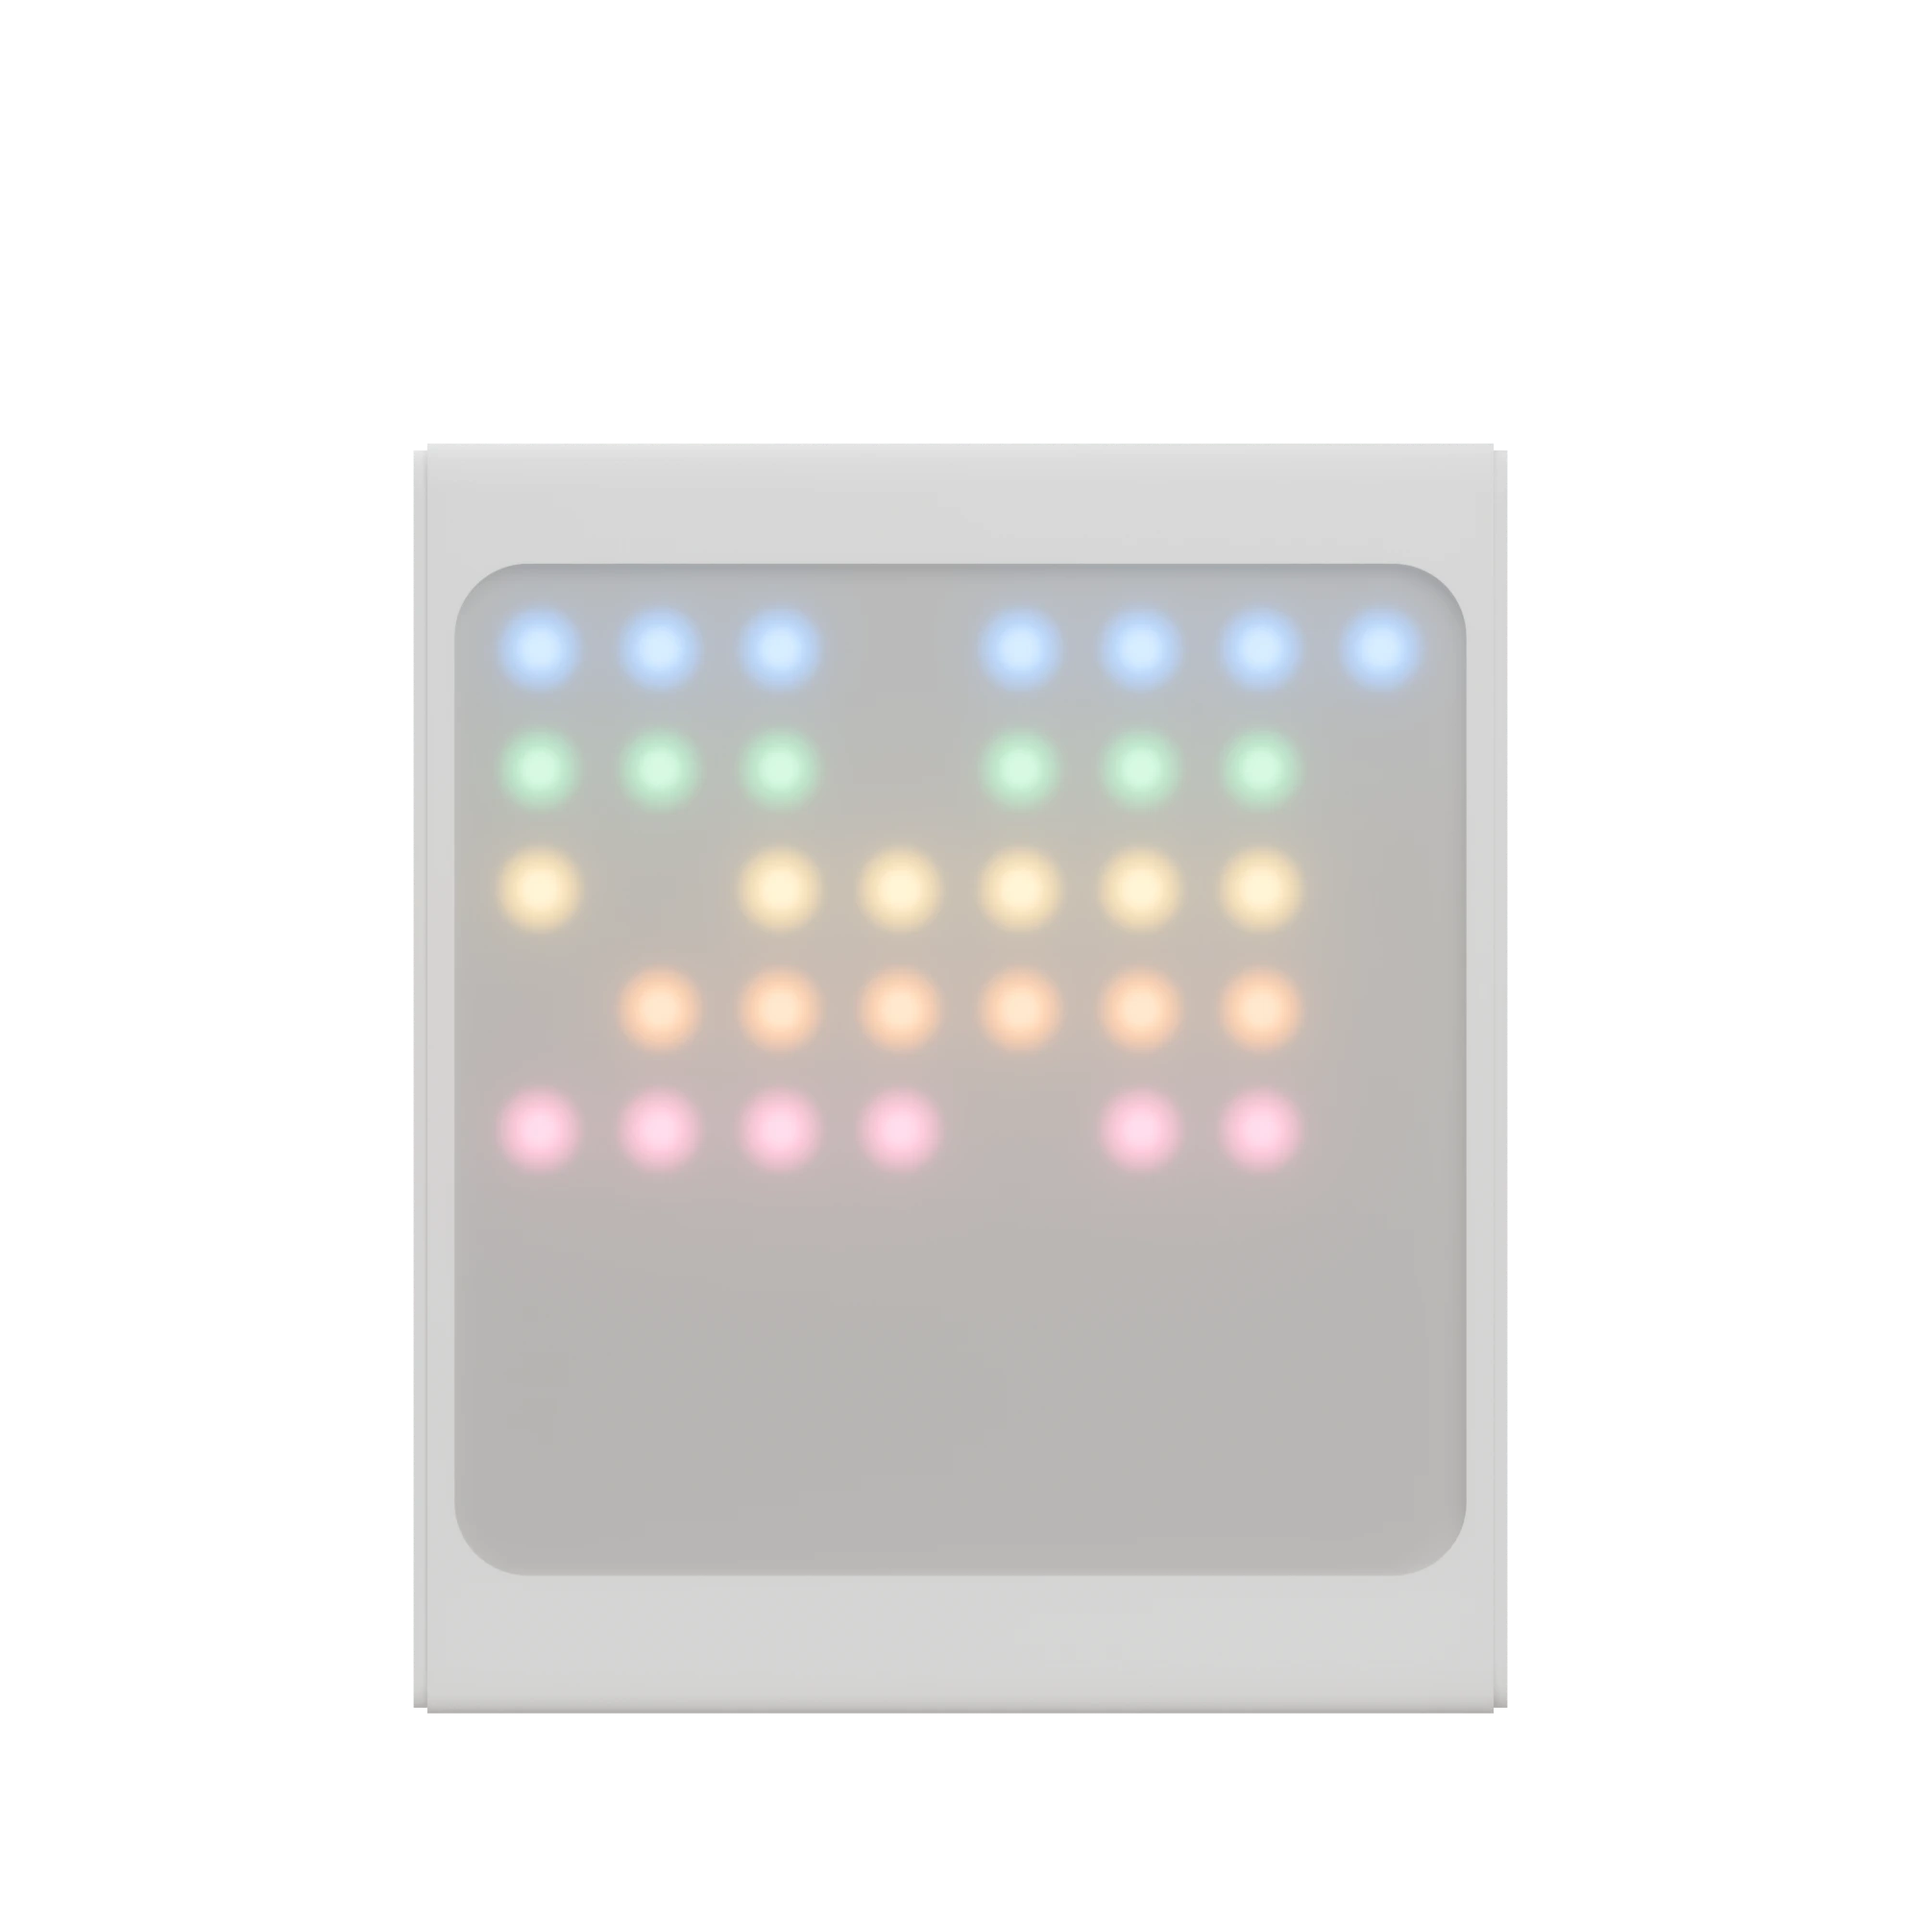
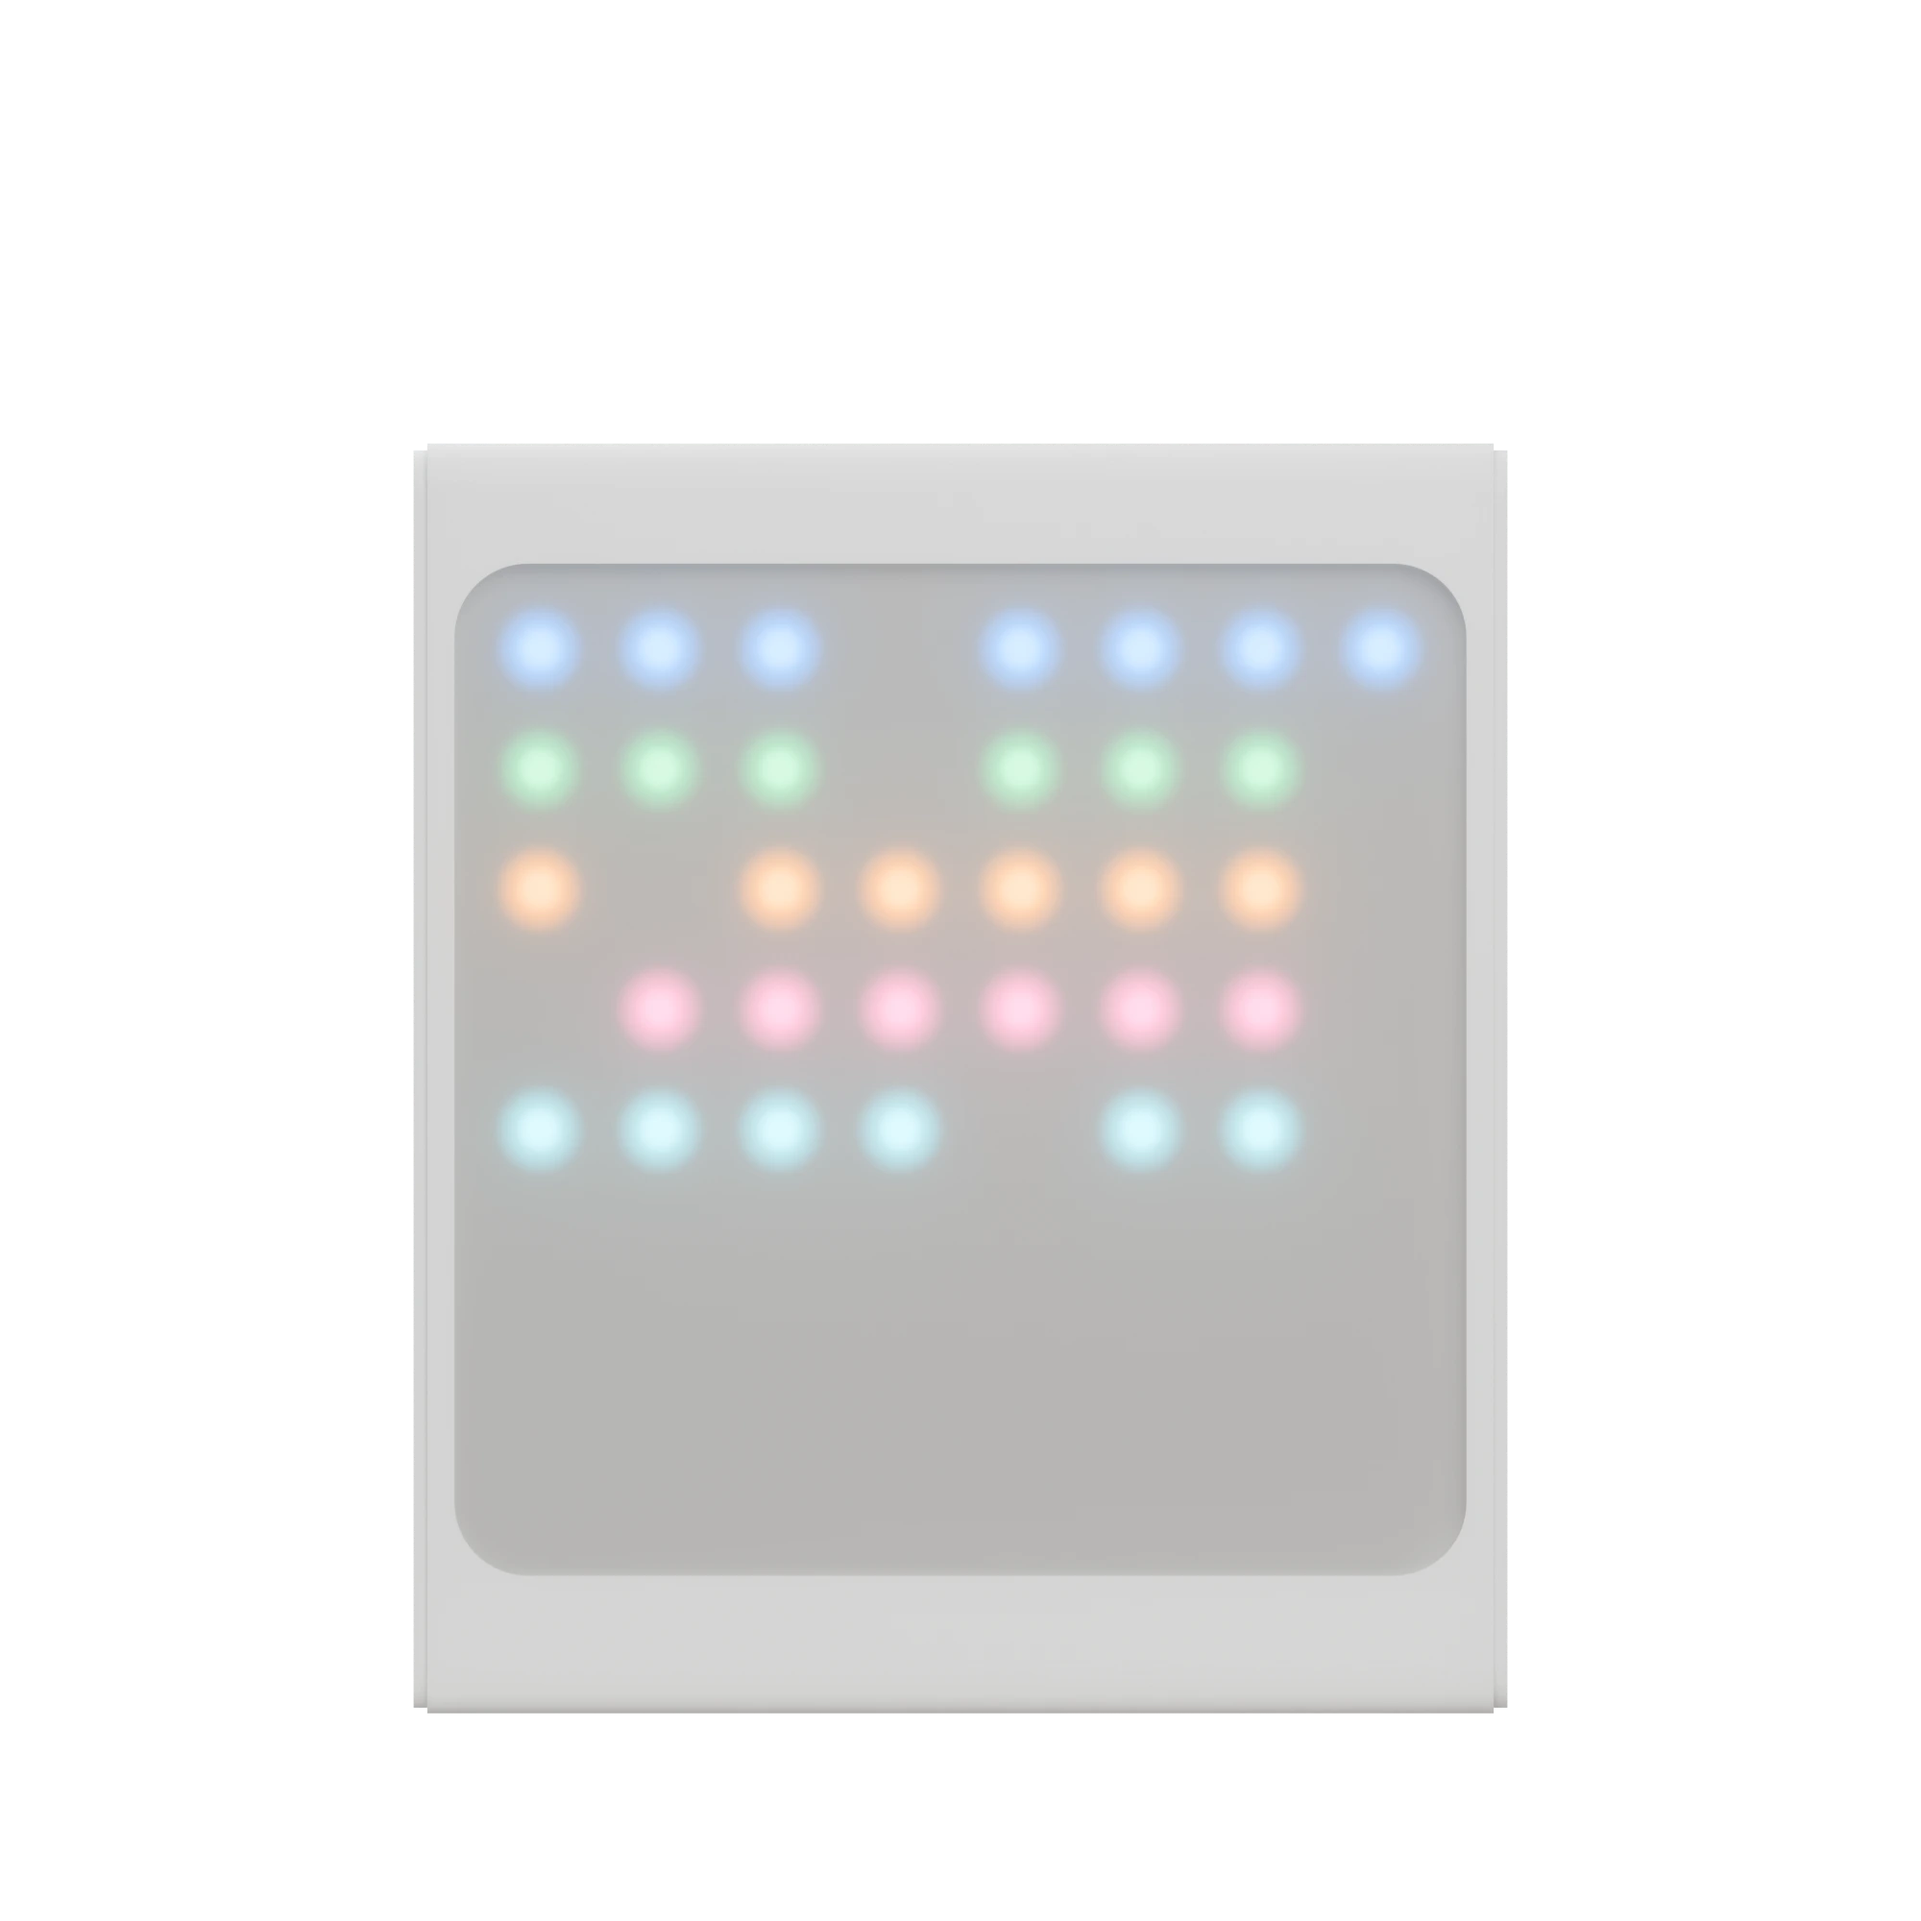
Match sync demo LED colours to the app's Read/Hydrate/Journal rows

Changed region(s): [[0.248, 0.496, 0.682, 0.62]]

diff --git a/mini/index.html b/mini/index.html
@@ -87,12 +87,12 @@
     <div class="sync-link" aria-hidden="true"><span></span><span></span><span></span></div>
     <figure class="sync-device">
       <div class="device-box"><div class="stack">
-        <img data-step="0" src="../assets/mini/sync/state-0.webp?v=3" alt="Mini showing recent habit history before today’s completions" width="2000" height="2000" loading="lazy">
-        <img data-step="1" src="../assets/mini/sync/state-1.webp?v=3" alt="" width="2000" height="2000" loading="lazy">
-        <img data-step="2" src="../assets/mini/sync/state-2.webp?v=3" alt="" width="2000" height="2000" loading="lazy">
-        <img data-step="3" src="../assets/mini/sync/state-3.webp?v=3" alt="" width="2000" height="2000" loading="lazy">
-        <img data-step="4" src="../assets/mini/sync/state-4.webp?v=3" alt="" width="2000" height="2000" loading="lazy">
-        <img data-step="5" src="../assets/mini/sync/state-5.webp?v=3" alt="" width="2000" height="2000" loading="lazy">
+        <img data-step="0" src="../assets/mini/sync/state-0.webp?v=4" alt="Mini showing recent habit history before today’s completions" width="2000" height="2000" loading="lazy">
+        <img data-step="1" src="../assets/mini/sync/state-1.webp?v=4" alt="" width="2000" height="2000" loading="lazy">
+        <img data-step="2" src="../assets/mini/sync/state-2.webp?v=4" alt="" width="2000" height="2000" loading="lazy">
+        <img data-step="3" src="../assets/mini/sync/state-3.webp?v=4" alt="" width="2000" height="2000" loading="lazy">
+        <img data-step="4" src="../assets/mini/sync/state-4.webp?v=4" alt="" width="2000" height="2000" loading="lazy">
+        <img data-step="5" src="../assets/mini/sync/state-5.webp?v=4" alt="" width="2000" height="2000" loading="lazy">
       </div></div>
       <figcaption>See your day light up</figcaption>
     </figure>
